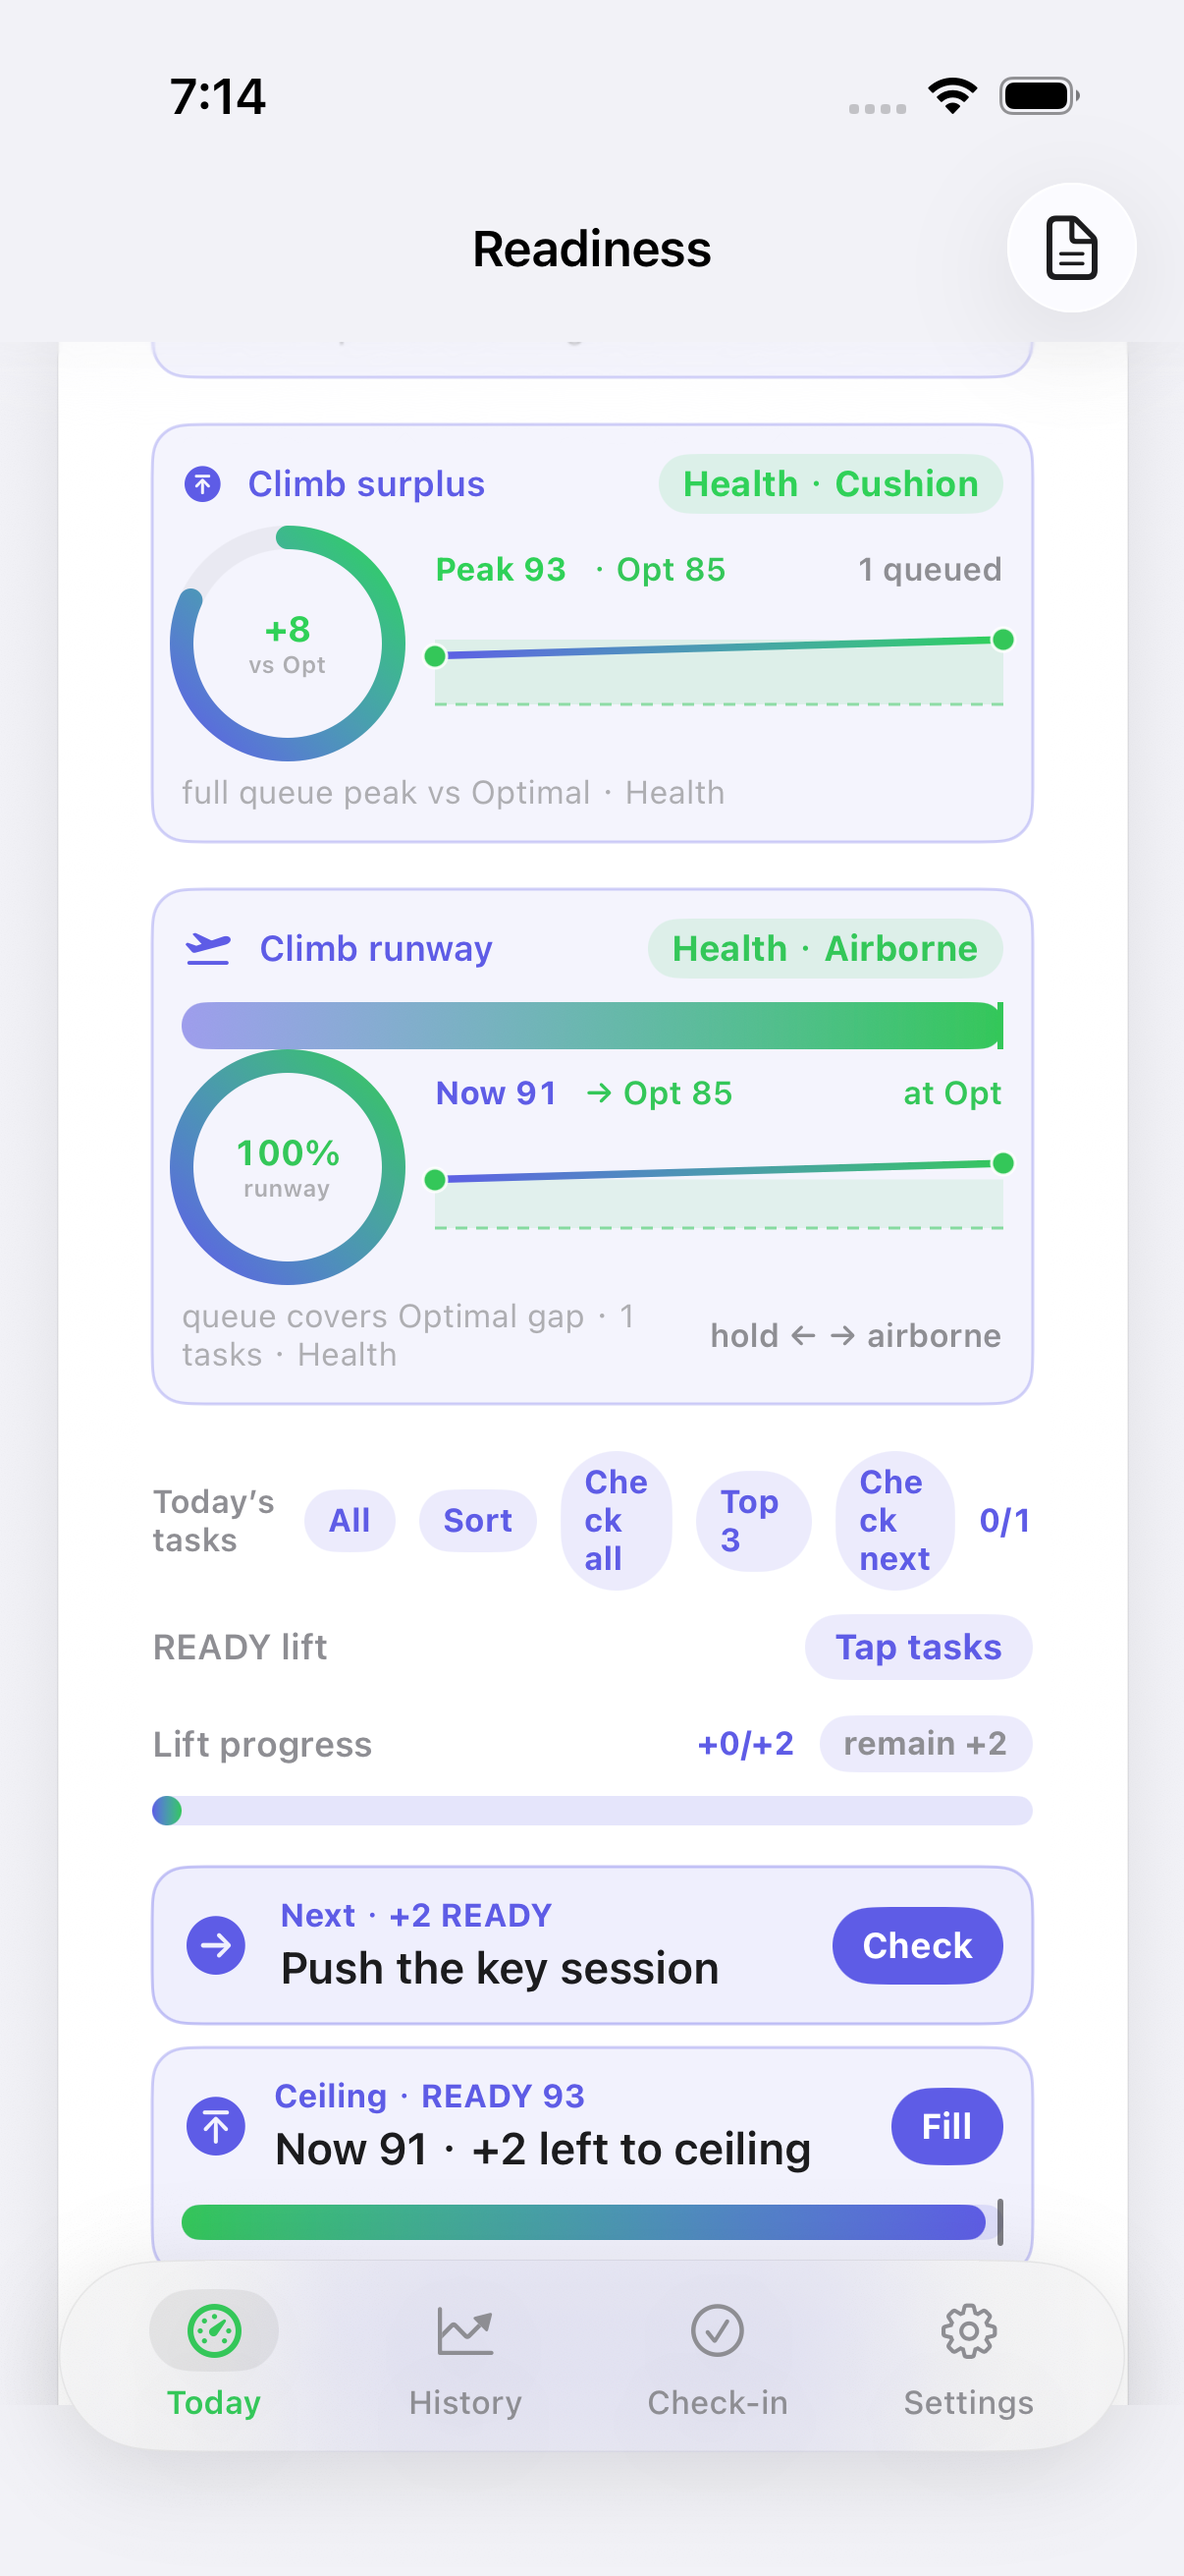
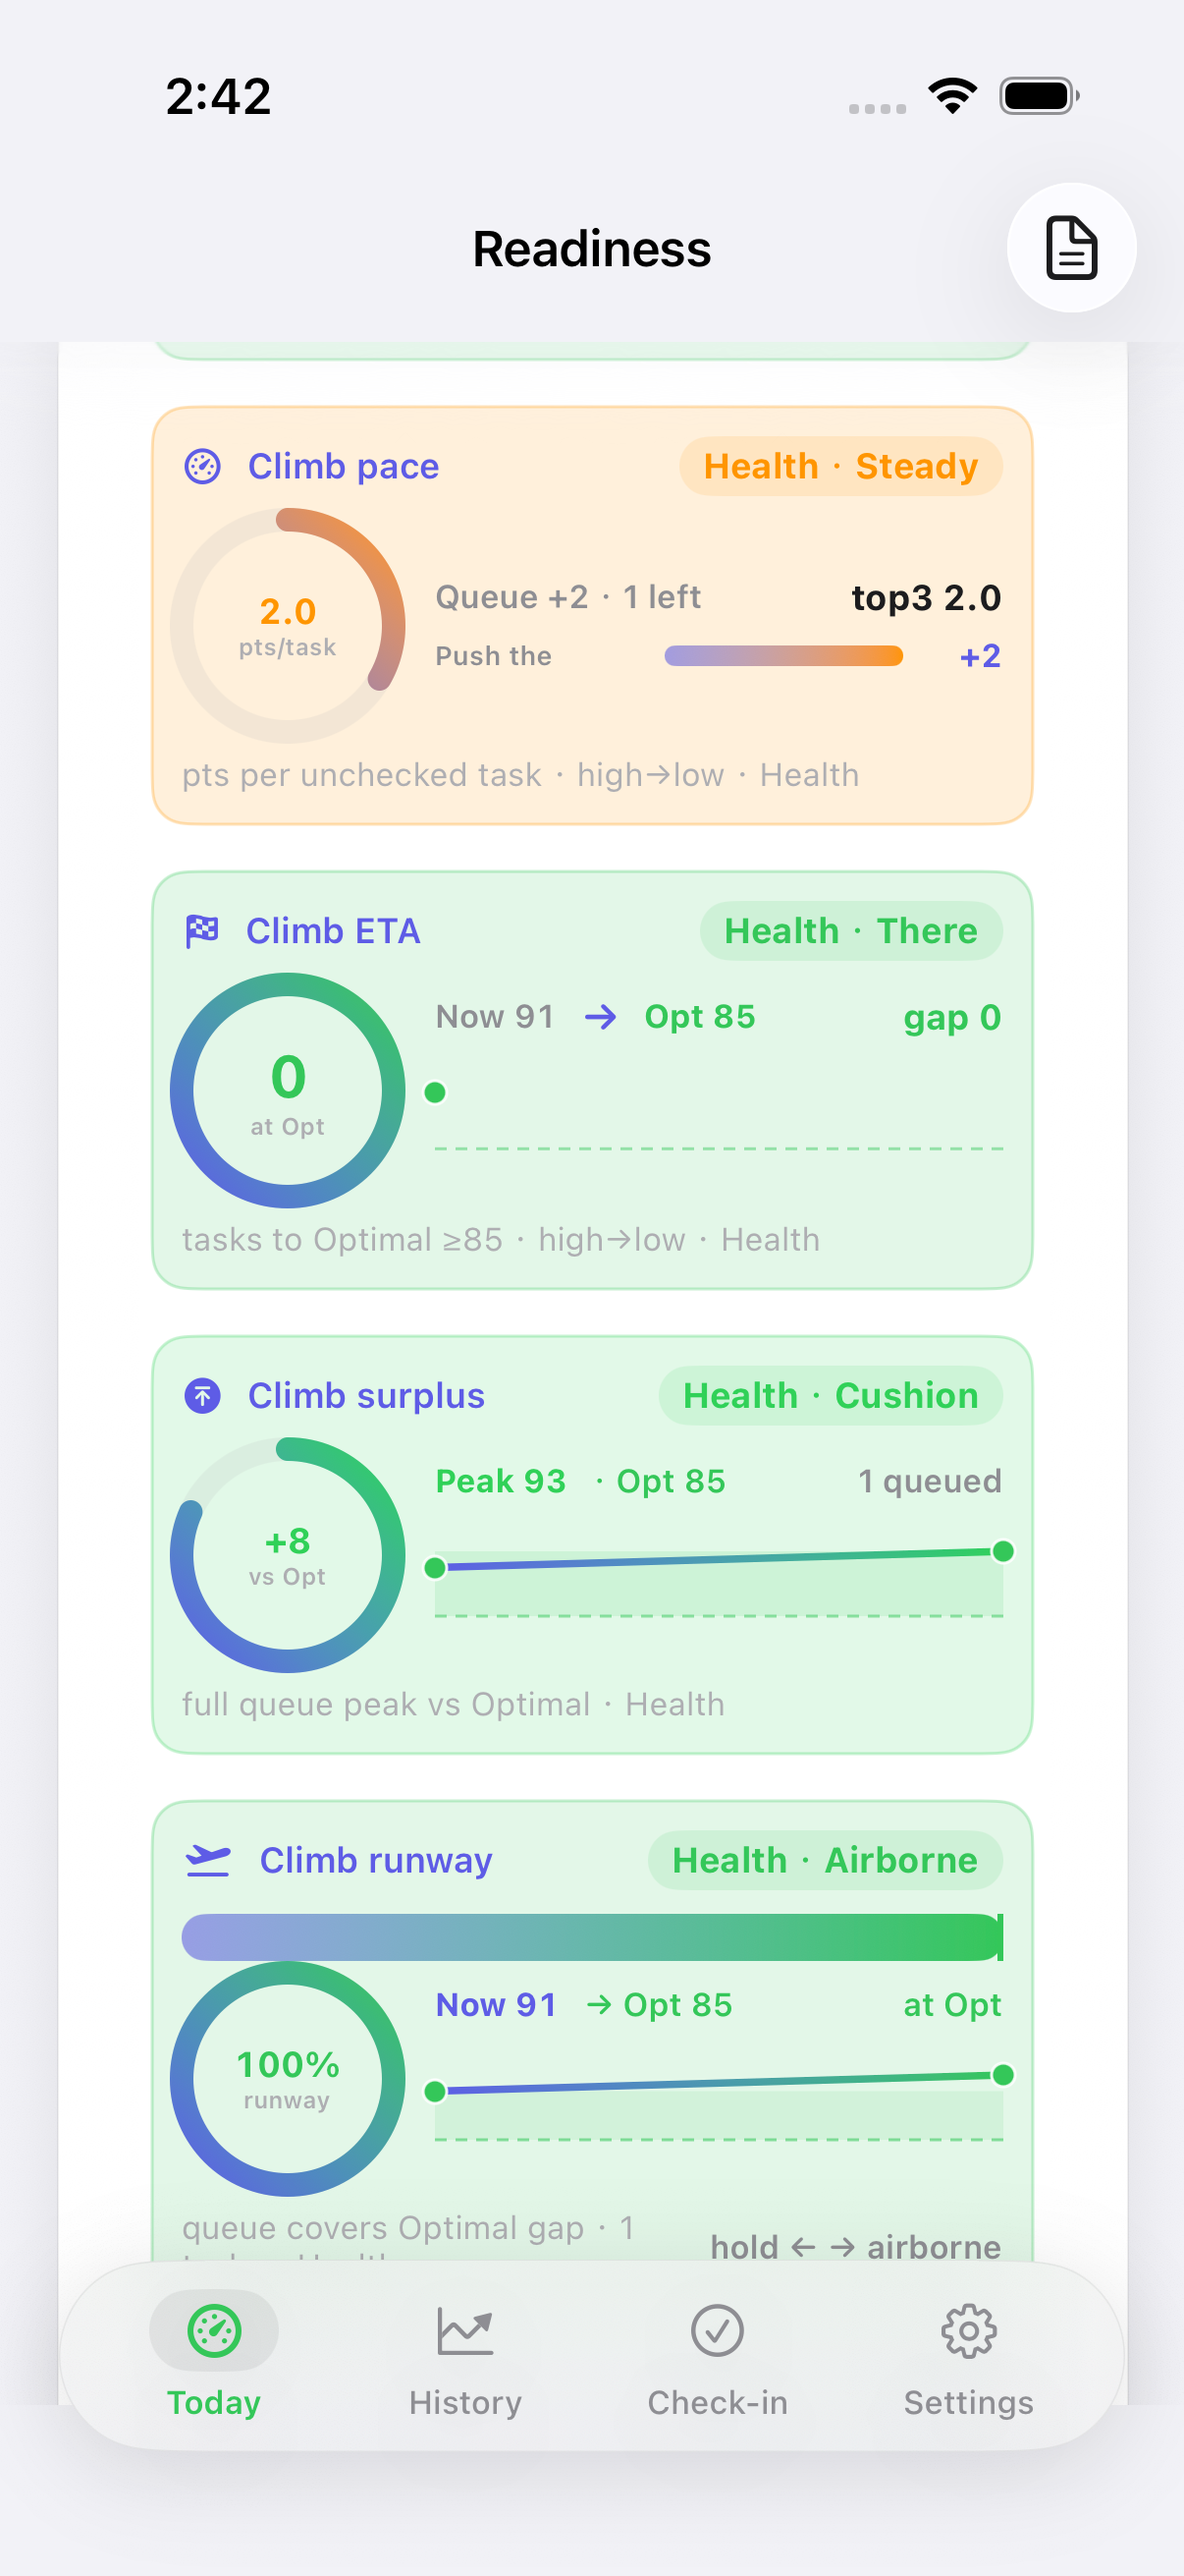
Honest #748: Simulator climb runway (WHOOP wells) (#778)
Why: keep Load Simulator climb visuals on WHOOP-well parity so the runway dial matches surplus/ETA/pace siblings instead of the older flat accent chrome.

Restyle the existing Simulator climb runway dial (`sim.load.ready.climb.runway`, Honest #623) with WHOOP wells.

- Idle Hold (covered < 0.33): ghost/hairline 8%/28%
- Active Taxi (covered >= 0.33): 14% fill + 28% hairline (caution)
- Roll (covered >= 0.66): 14% fill + 28% hairline (good)
- Rotate (covered >= 1.0) and Airborne (gap == 0): 14% fill + 28% hairline (optimal); no new SurfaceID; no formula change

Proof: `testReadinessLoadSimulatorSurface` 767.299s, 0 failures; `.audit/verify-simulator-climb-runway.png`
model=deepseek-flash (mechanical pattern-copy of #747 wells)

diff --git a/ReadinessTracker/Views/WhoopFeatures/ReadinessLoadSimulatorCard.swift b/ReadinessTracker/Views/WhoopFeatures/ReadinessLoadSimulatorCard.swift
@@ -4249,7 +4249,7 @@ struct ReadinessLoadSimulatorCard: View {
         .animation(.easeInOut(duration: 0.25), value: projectedCoupled)
     }
 
-    /// Honest #623: READY climb runway — fraction of gap-to-Optimal covered by pending queue (Fitbit/Health graphics).
+    /// Honest #623 / #748: READY climb runway — fraction of gap-to-Optimal covered by pending queue (Fitbit/Health graphics; WHOOP wells).
     @ViewBuilder
     private var readyClimbRunwayDial: some View {
         let pending = tasks.filter { !completedTaskIDs.contains($0.id) }.sorted { $0.readyDelta > $1.readyDelta }
@@ -4286,6 +4286,8 @@ struct ReadinessLoadSimulatorCard: View {
         } else {
             verb = "Hold"; tone = RTColor.warning
         }
+        let climbRunwayIsActive = (verb != "Hold")
+        let wellTone: Color = climbRunwayIsActive ? tone : RTColor.secondaryText
         let disp = String(format: "%.0f%%", covered * 100)
         let lo = max(0, min(start, peak, target) - 4)
         let hi = min(100, max(start, peak, target) + 4)
@@ -4415,10 +4417,10 @@ struct ReadinessLoadSimulatorCard: View {
             }
         }
         .padding(10)
-        .background(accent.opacity(0.07), in: RoundedRectangle(cornerRadius: 12, style: .continuous))
+        .background(wellTone.opacity(climbRunwayIsActive ? 0.14 : 0.08), in: RoundedRectangle(cornerRadius: 12, style: .continuous))
         .overlay(
             RoundedRectangle(cornerRadius: 12, style: .continuous)
-                .stroke(accent.opacity(0.28), lineWidth: 1)
+                .stroke(wellTone.opacity(0.28), lineWidth: 1)
         )
         .accessibilityIdentifier(SurfaceID.readinessSimulatorClimbRunway)
         .accessibilityLabel("Climb runway \(verb) \(disp)")

diff --git a/ReadinessTracker/Design/Theme.swift b/ReadinessTracker/Design/Theme.swift
@@ -412,7 +412,7 @@ enum SurfaceID {
     static let readinessSimulatorClimbPace = "sim.load.ready.climb.pace"  // Honest #617 / #745
     static let readinessSimulatorClimbETA = "sim.load.ready.climb.eta"  // Honest #619 / #746
     static let readinessSimulatorClimbSurplus = "sim.load.ready.climb.surplus"  // Honest #621 / #747
-    static let readinessSimulatorClimbRunway = "sim.load.ready.climb.runway"  // Honest #623
+    static let readinessSimulatorClimbRunway = "sim.load.ready.climb.runway"  // Honest #623 / #748
     static let readinessSimulatorClimbGlide = "sim.load.ready.climb.glide"  // Honest #626
     static let readinessSimulatorClimbIntercept = "sim.load.ready.climb.intercept"  // Honest #639
     static let readinessSimulatorClimbMargin = "sim.load.ready.climb.margin"  // Honest #712

diff --git a/ReadinessTrackerUITests/SurfacesUITests.swift b/ReadinessTrackerUITests/SurfacesUITests.swift
@@ -10912,7 +10912,7 @@ final class SurfacesUITests: XCTestCase {
         }
         saveShot("verify-simulator-climb-surplus.png")
 
-        // Honest #623: READY climb runway
+        // Honest #623 / #748: READY climb runway (WHOOP wells)
         let climbRunway = app.descendants(matching: .any)["sim.load.ready.climb.runway"].firstMatch
         XCTAssertTrue(climbRunway.waitForExistence(timeout: 5)
                       || app.descendants(matching: .any)["sim.load.ready.climb.surplus"].firstMatch.exists

diff --git a/.audit/decision-log-2026-11-04.md b/.audit/decision-log-2026-11-04.md
@@ -324,3 +324,9 @@
 
 | 02:15 HKT | #747 Simulator climb surplus | prove | UITest suite green /tmp/RT-DD747 (766.033s, 0 failures; observer 778.893s); model=deepseek-flash |
 | 02:17 HKT | #747 Simulator climb surplus | land | proof PNG + receipt; SID sim.load.ready.climb.surplus; PR squash next; model=deepseek-flash |
+
+| 02:29 HKT | Honest #748 Simulator climb runway | model=deepseek-flash | restyle existing sim.load.ready.climb.runway after climb surplus #747; WHOOP ghost/active wells; mechanical pattern-copy of #747 wells applied locally (no separate model iterate needed) | mid-ship |
+| 02:29 HKT | Honest #748 Simulator climb runway | prove | started UITest /tmp/RT-DD748; model=deepseek-flash | mid-ship |
+
+| 02:47 HKT | #748 Simulator climb runway | prove | UITest suite green /tmp/RT-DD748 (767.299s, 0 failures; observer 780.535s); model=deepseek-flash |
+| 02:48 HKT | #748 Simulator climb runway | land | proof PNG + receipt; SID sim.load.ready.climb.runway; PR squash next; model=deepseek-flash |

diff --git a/.cursor/skills/verify-readiness-tracker/features/readiness-simulator-climb-runway.md b/.cursor/skills/verify-readiness-tracker/features/readiness-simulator-climb-runway.md
@@ -3,6 +3,7 @@
 ## Sub-features
 - Climb runway dial on Load Simulator (Hold/Taxi/Roll/Rotate/Airborne)
 - SurfaceID `sim.load.ready.climb.runway`
+- WHOOP wells: idle Hold (covered < 0.33) = ghost/hairline 8%/28%; active Taxi (covered >= 0.33) = 14% fill + 28% hairline (caution); Roll (covered >= 0.66) = 14% fill + 28% hairline (good); Rotate (covered >= 1.0) and Airborne (gap == 0) = 14% fill + 28% hairline (optimal)
 
 ## How to get to it (user POV)
 Today → Load Simulator card → scroll past climb surplus → Climb runway
@@ -12,3 +13,4 @@ UITest asserts `sim.load.ready.climb.runway` (fallback surplus/sim.load) and sav
 
 ## Gotchas
 Empty when no pending tasks. Fitbit vs Health source label.
+Idle Hold uses secondaryText ghost/hairline (8%/28%); Taxi/Roll/Rotate/Airborne keep existing verb tones with 14% fill + 28% hairline. No formula / verb / threshold / metric change.

diff --git a/.audit/features/readiness-simulator-climb-runway.md b/.audit/features/readiness-simulator-climb-runway.md
@@ -1,5 +1,6 @@
-# Honest #623: Simulator climb runway
+# Honest #623 / #748: Simulator climb runway (WHOOP wells)
 
 Queue covers Optimal gap (Hold/Taxi/Roll/Rotate/Airborne).
+Idle (Hold / covered < 0.33) = ghost/hairline 8/28; active Taxi (covered >= 0.33) = 14 fill + 28 hairline (caution); Roll (covered >= 0.66) = 14 fill + 28 hairline (good); Rotate (covered >= 1.0) and Airborne (gap == 0) = 14 fill + 28 hairline (optimal).
 SurfaceID: `sim.load.ready.climb.runway`
 Proof: `.audit/verify-simulator-climb-runway.png`

diff --git a/.audit/sim-climb-runway.md b/.audit/sim-climb-runway.md
@@ -1,5 +1,6 @@
-# Honest #623: Simulator climb runway
+# Honest #623 / #748: Simulator climb runway (WHOOP wells)
 
 Queue covers Optimal gap (Hold/Taxi/Roll/Rotate/Airborne).
+Idle (Hold / covered < 0.33) = ghost/hairline 8/28; active Taxi (covered >= 0.33) = 14 fill + 28 hairline (caution); Roll (covered >= 0.66) = 14 fill + 28 hairline (good); Rotate (covered >= 1.0) and Airborne (gap == 0) = 14 fill + 28 hairline (optimal).
 SurfaceID: `sim.load.ready.climb.runway`
 Proof: `.audit/verify-simulator-climb-runway.png`
